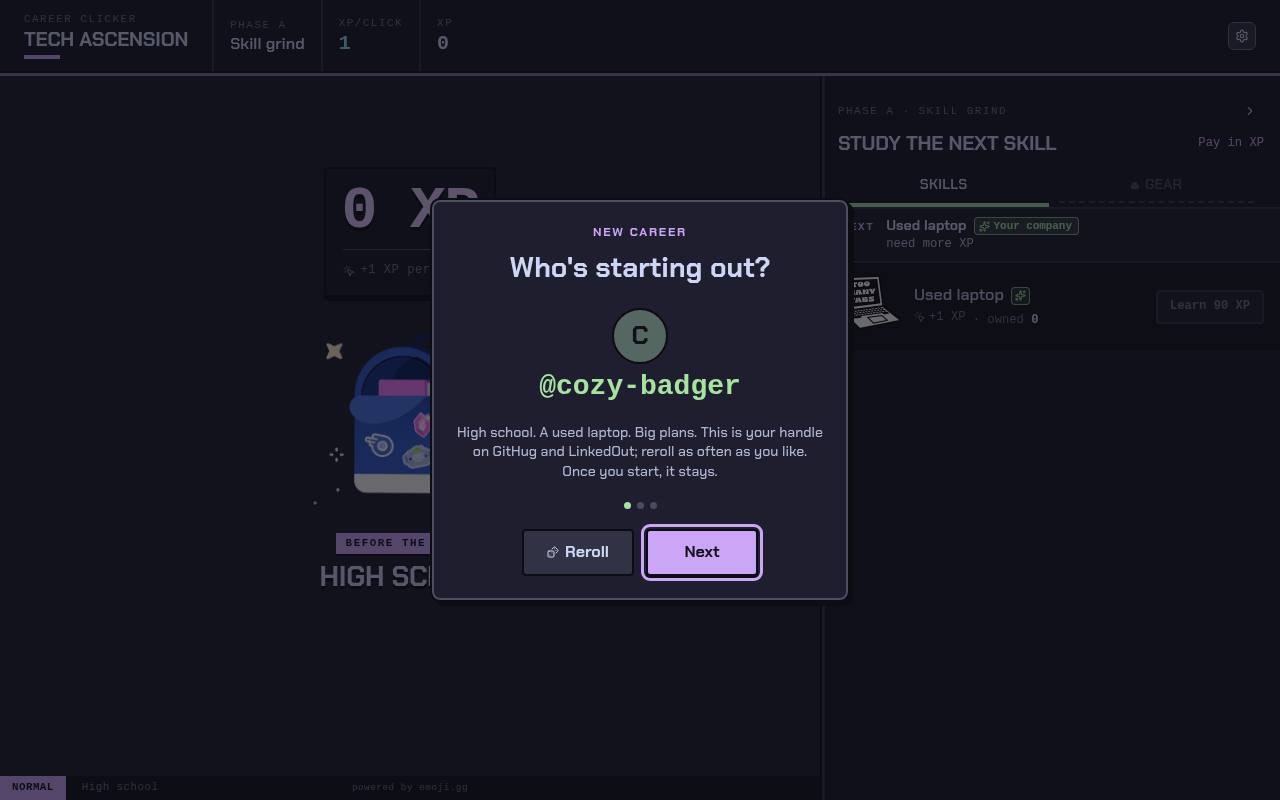
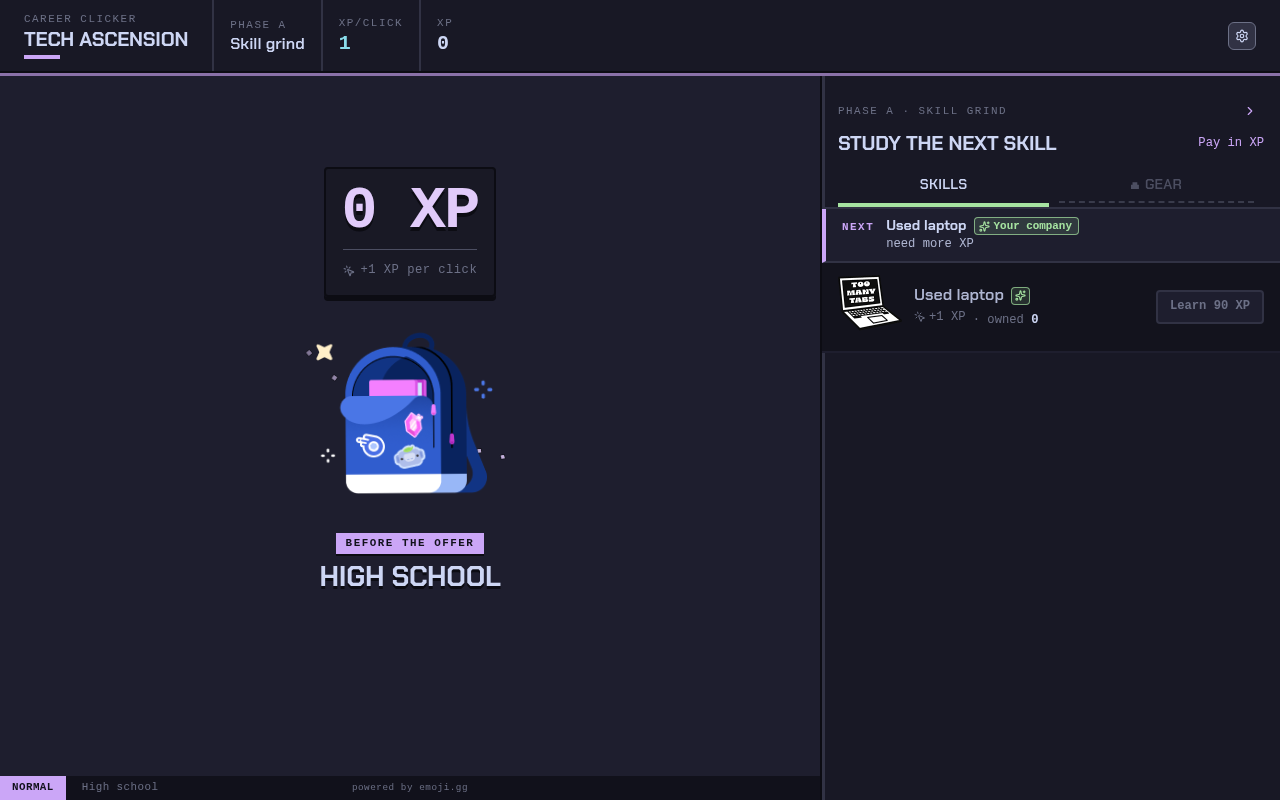
docs(readme): show the game at its start, with the start card dismissed

diff --git a/README.md b/README.md
@@ -16,4 +16,4 @@ npm run smoke:play   # plays the game through window.__GAME__
 npm run build
 ```
 
-![The start card on a fresh save](docs/screenshots/start.png)
+![The game at its start, on a fresh save](docs/screenshots/start.png)
